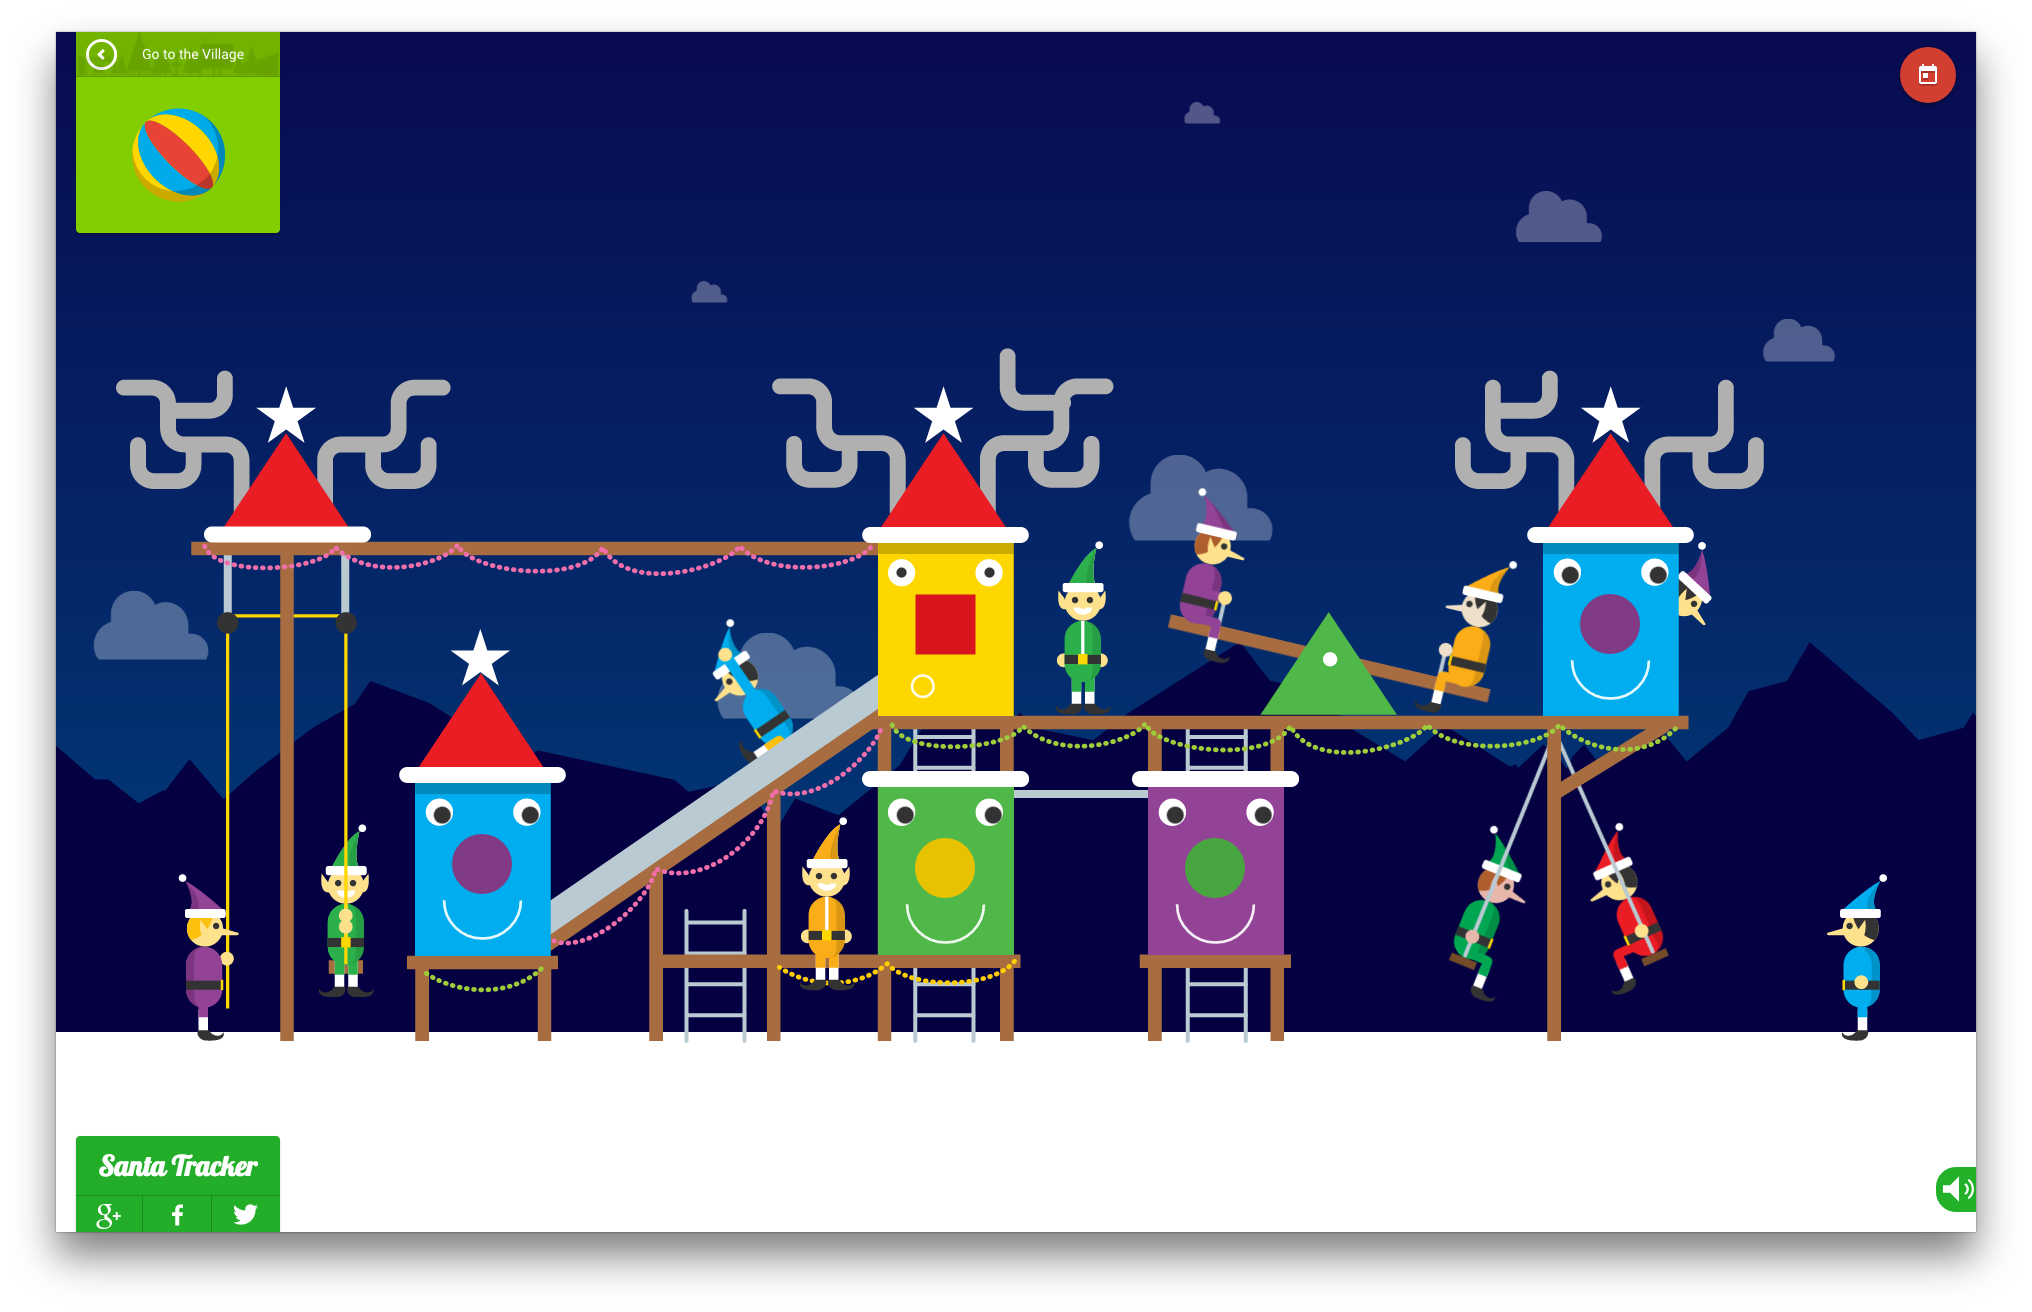
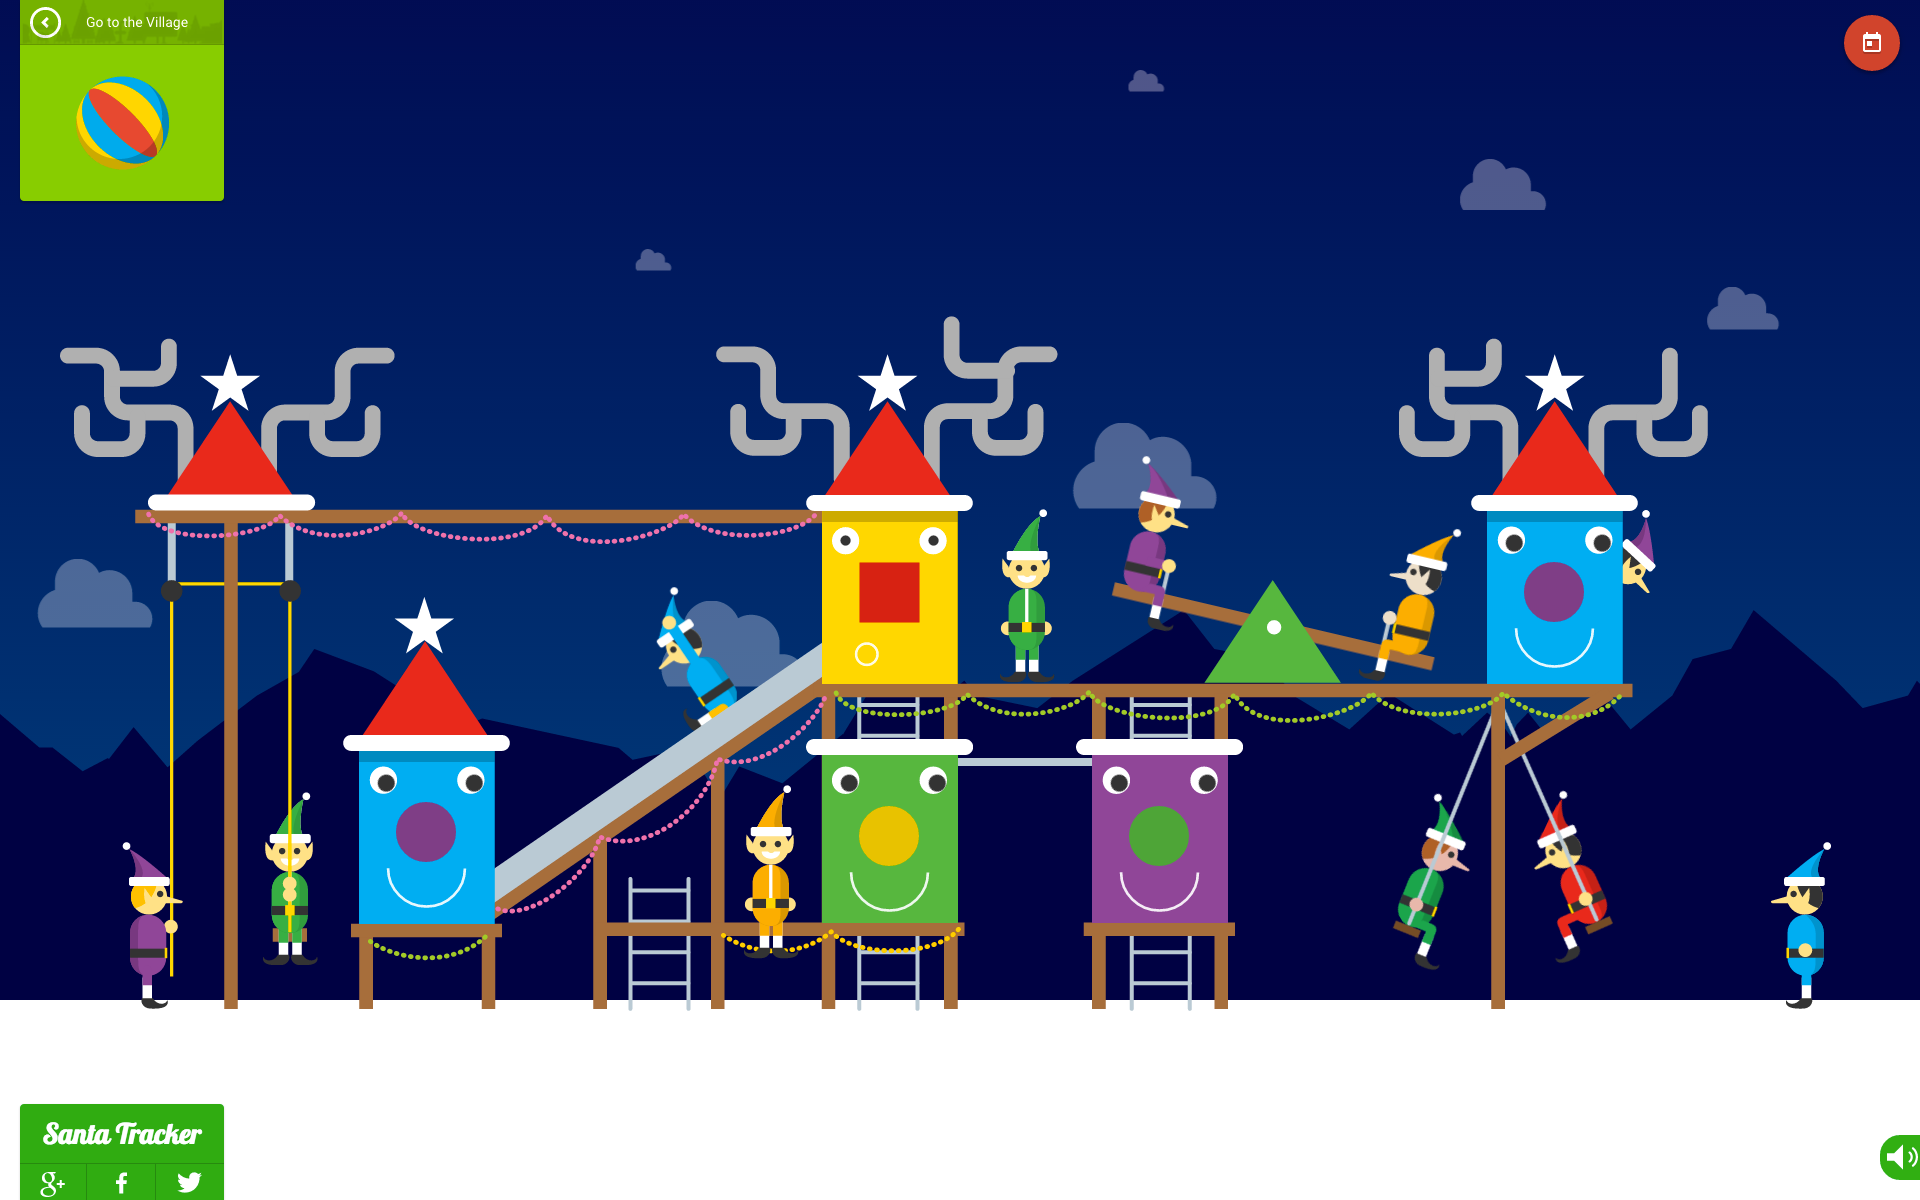
santa: removed dropshadow from screenshots

diff --git a/app/work/_posts/2014-12-24-google-santa.html b/app/work/_posts/2014-12-24-google-santa.html
@@ -31,7 +31,7 @@ Each day - from December 1st to December 24th - we get to follow Santa and his e
 {% endmarkdown %}
   </div>
 
-  {% include wide-content-image.html src="/images/work/google-santa-tracker/santa-tracker-village-desktop.png" alt="Santa's village is the entry point to all the individual games and scenes." ratio="3_2" margin="top" %}
+  {% include wide-content-image.html src="/images/work/google-santa-tracker/santa-tracker-village-desktop.png" alt="Santa's village is the entry point to all the individual games and scenes." ratio="16_10" margin="both" %}
 
   <div class="grid__row">
 {% markdown %}
@@ -55,7 +55,7 @@ All design elements are vector based - a good approach to keep things flexible a
 {% endmarkdown %}
   </div>
 
-  {% include wide-content-image.html src="/images/work/google-santa-tracker/santa-tracker-playground-desktop.png" alt="The playground scene features many fun animations and eyes that follow the mouse." ratio="3_2" margin="top" %}
+  {% include wide-content-image.html src="/images/work/google-santa-tracker/santa-tracker-playground-desktop.png" alt="The playground scene features many fun animations and eyes that follow the mouse." ratio="16_10" margin="both" %}
 
 </section>
 
@@ -83,7 +83,7 @@ Many of the scenes were fully fledged games, such as the matching game where you
 {% endmarkdown %}
   </div>
 
-  {% include wide-content-image.html src="/images/work/google-santa-tracker/santa-tracker-matching-game-desktop.png" alt="Santa Tracker Matching Game" ratio="3_2" margin="both" %}
+  {% include wide-content-image.html src="/images/work/google-santa-tracker/santa-tracker-matching-game-desktop.png" alt="Santa Tracker Matching Game" ratio="16_10" margin="both" %}
 
   <div class="grid__row">
 {% markdown %}
@@ -91,7 +91,7 @@ We also integrated with many cool Google services such as the Street View Panora
 {% endmarkdown %}
   </div>
 
-  {% include wide-content-image.html src="/images/work/google-santa-tracker/santa-tracker-translations-desktop.png" alt="Santa Translation scene" ratio="3_2" margin="top" %}
+  {% include wide-content-image.html src="/images/work/google-santa-tracker/santa-tracker-translations-desktop.png" alt="Santa Translation scene" ratio="16_10" margin="both" %}
 
   <div class="grid__row">
 {% markdown %}
